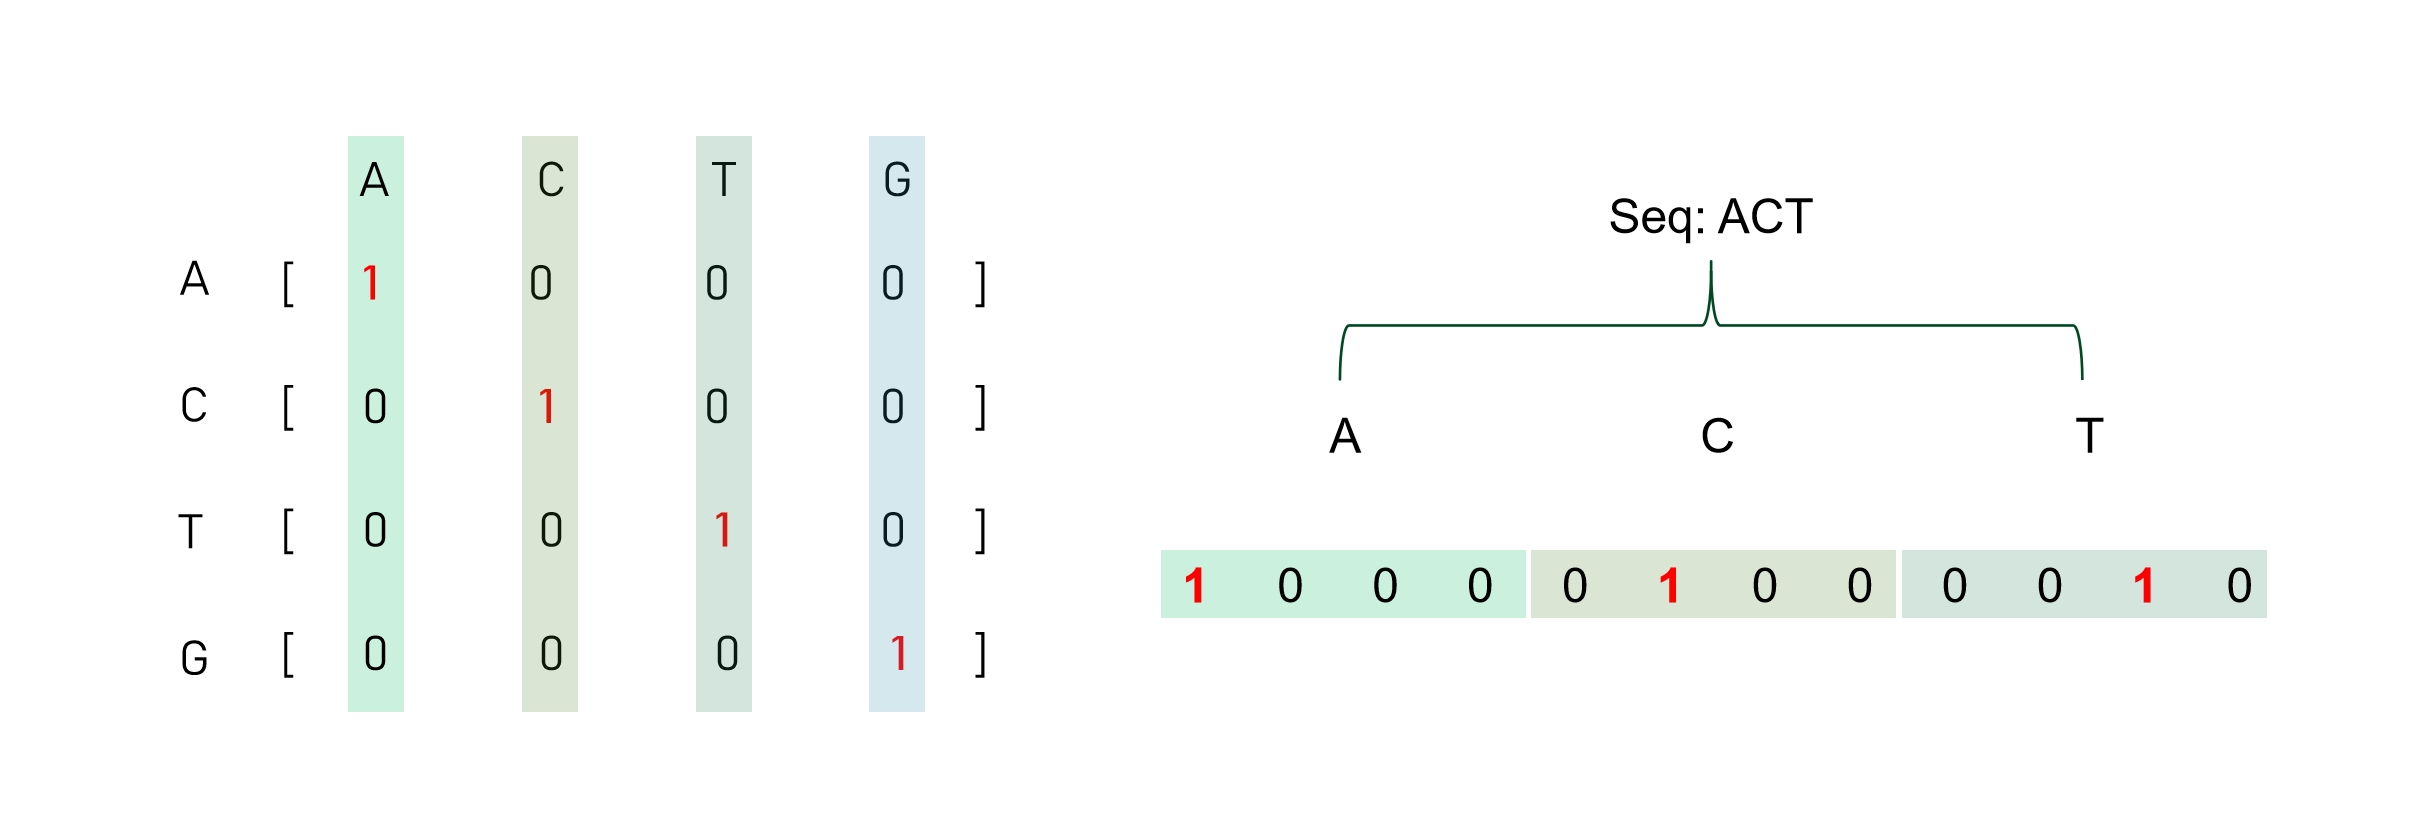
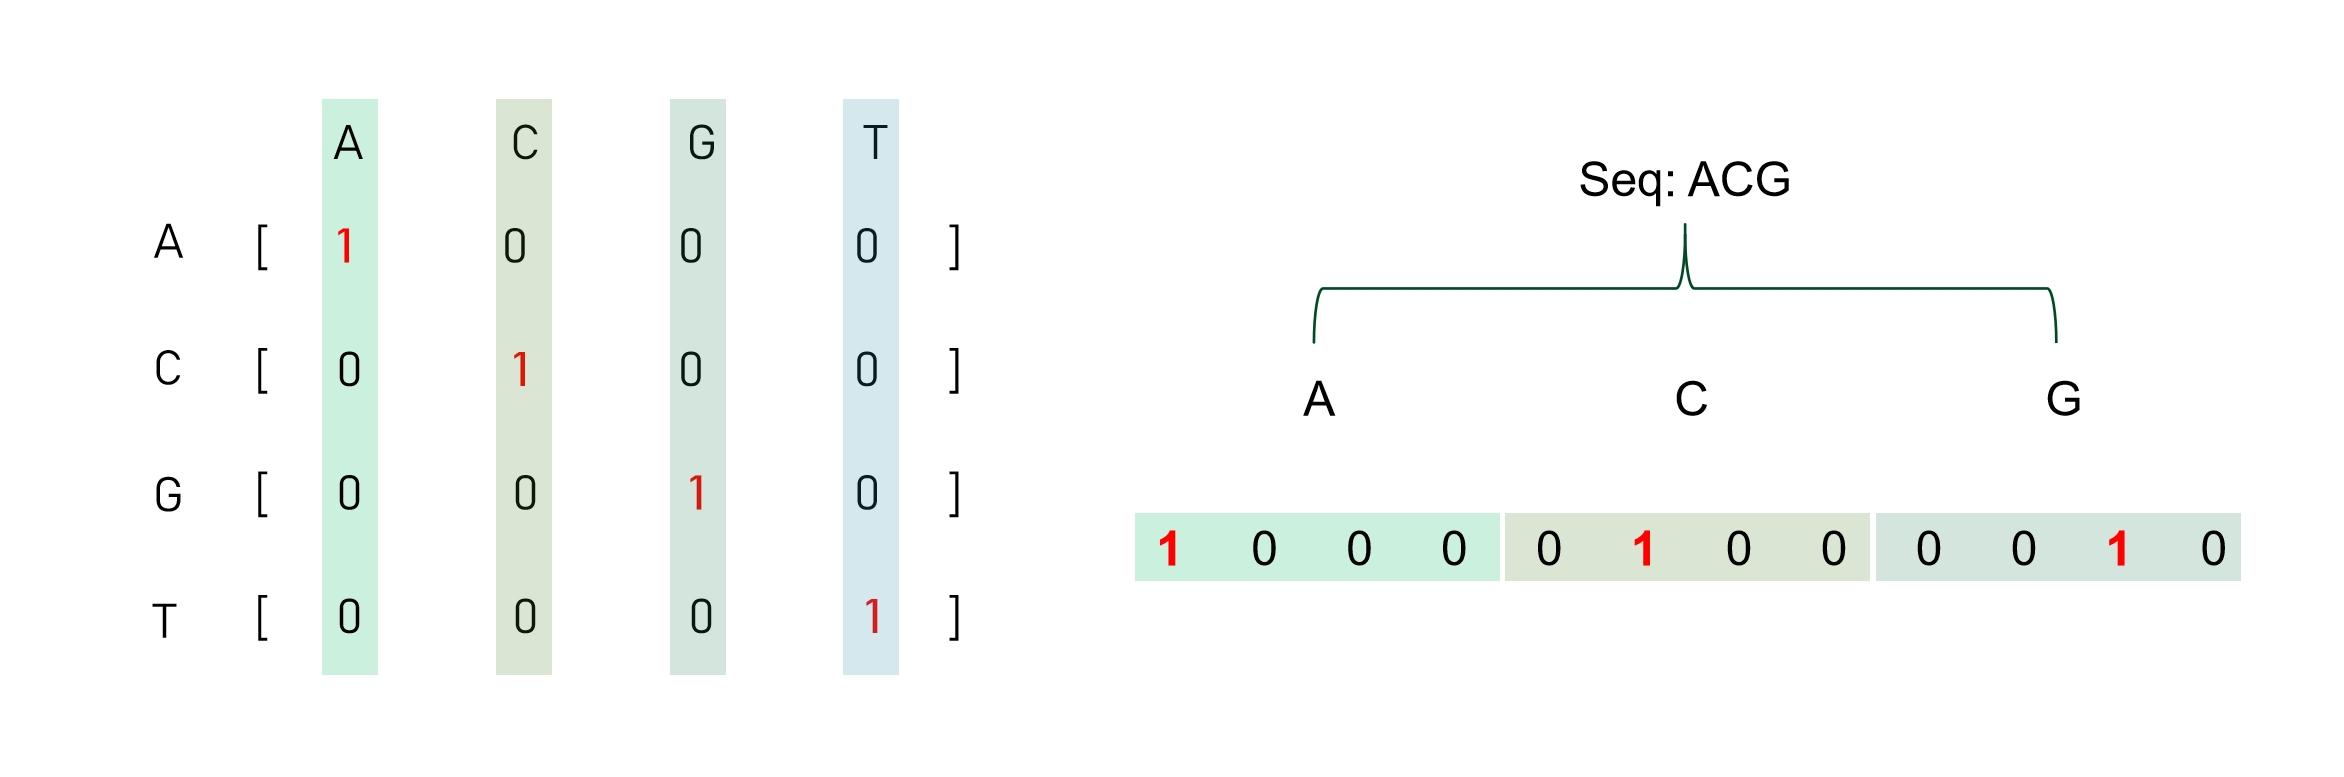
添加 README & 补充内容

diff --git a/build/html/task.html b/build/html/task.html
@@ -53,7 +53,8 @@
 <li class="toctree-l3"><a class="reference internal" href="#id4">数据文件</a></li>
 <li class="toctree-l3"><a class="reference internal" href="#id5">关于独热编码</a></li>
 <li class="toctree-l3"><a class="reference internal" href="#id6">挑选基因</a></li>
-<li class="toctree-l3"><a class="reference internal" href="#id7">思考</a></li>
+<li class="toctree-l3"><a class="reference internal" href="#id7">参考材料</a></li>
+<li class="toctree-l3"><a class="reference internal" href="#id8">思考</a></li>
 </ul>
 </li>
 </ul>
@@ -130,7 +131,7 @@
 <h2>作业 2<a class="headerlink" href="#id3" title="Link to this heading"></a></h2>
 <p>该作业的主要目的是<strong>基于生物学数据进行数据的预处理，并通过线性模型完成指定生物学任务</strong>。</p>
 <img src="_static/images/q2.png" height="400px" />
-<p>在作业附件中，有提供数据文件 <code class="docutils literal notranslate"><span class="pre">sgRNA_data.tsv</span></code>，你可将其移动至与 jupyter notebook 文件相同的文件夹并通过 pandas 库对其进行读取</p>
+<p>在作业附件中，有提供数据文件 <code class="docutils literal notranslate"><span class="pre">sgRNA_data.tsv</span></code>，你可将其移动至与 jupyter notebook 文件相同的文件夹并通过 pandas 库对其进行读取：</p>
 <div class="highlight-python notranslate"><div class="highlight"><pre><span></span><span class="kn">import</span> <span class="nn">pandas</span> <span class="k">as</span> <span class="nn">pd</span>
 <span class="n">data</span> <span class="o">=</span> <span class="n">pd</span><span class="o">.</span><span class="n">read_csv</span><span class="p">(</span><span class="s2">&quot;./sgRNA_data.tsv&quot;</span><span class="p">,</span> <span class="n">sep</span><span class="o">=</span><span class="s2">&quot;</span><span class="se">\t</span><span class="s2">&quot;</span><span class="p">)</span>
 </pre></div>
@@ -153,13 +154,20 @@
 </ul>
 <p>以该作业的情况为例，在使用单碱基独热编码时，共四种情况：</p>
 <img src="_static/images/q2_onehot.png" height="400px" />
-<p>其中，四种碱基 <code class="docutils literal notranslate"><span class="pre">A</span></code> <code class="docutils literal notranslate"><span class="pre">C</span></code> <code class="docutils literal notranslate"><span class="pre">T</span></code> <code class="docutils literal notranslate"><span class="pre">G</span></code> 分别对应一个长度为 4 的向量，并仅在一个对应位置上为 1（其他皆为 0）。对于一段序列（例如上图中的 <code class="docutils literal notranslate"><span class="pre">ACT</span></code>），可将其所有的碱基转换为对应向量并串联，即可得到该序列对应的独热编码结果。对于二碱基独热编码同理，共有 16 种可能的二碱基组合，其中每一种组合都对应一个长度为 16 的向量。</p>
+<p>其中，四种碱基 <code class="docutils literal notranslate"><span class="pre">A</span></code> <code class="docutils literal notranslate"><span class="pre">C</span></code> <code class="docutils literal notranslate"><span class="pre">G</span></code> <code class="docutils literal notranslate"><span class="pre">T</span></code> 分别对应一个长度为 4 的向量，并仅在一个对应位置上为 1（其他皆为 0）。对于一段序列（例如上图中的 <code class="docutils literal notranslate"><span class="pre">ACG</span></code>），可将其所有的碱基转换为对应向量并串联，即可得到该序列对应的独热编码结果。对于二碱基独热编码同理，共有 16 种可能的二碱基组合，其中每一种组合都对应一个长度为 16 的向量。</p>
 <p>为了得到每条 sgRNA 序列的独热编码结果，你可以使用字典保存每一种单碱基（二碱基）和对应向量的关系，通过 <code class="docutils literal notranslate"><span class="pre">for</span></code> 循环遍历该序列的单碱基（二碱基）并将把对应向量保存至同一个列表中，最后使用 <code class="docutils literal notranslate"><span class="pre">numpy</span></code> 的 <code class="docutils literal notranslate"><span class="pre">concatenate</span></code> 将其串联至一起，以下是一个示例：</p>
 <div class="highlight-python notranslate"><div class="highlight"><pre><span></span><span class="kn">import</span> <span class="nn">numpy</span> <span class="k">as</span> <span class="nn">np</span>
-<span class="n">np</span><span class="o">.</span><span class="n">concatenate</span><span class="p">([[</span><span class="mi">0</span><span class="p">,</span> <span class="mi">1</span><span class="p">],</span> <span class="p">[</span><span class="mi">1</span><span class="p">,</span> <span class="mi">2</span><span class="p">]])</span>
+
+<span class="n">one_hot_list</span> <span class="o">=</span> <span class="p">[</span>
+    <span class="p">[</span><span class="mi">1</span><span class="p">,</span> <span class="mi">0</span><span class="p">,</span> <span class="mi">0</span><span class="p">,</span> <span class="mi">0</span><span class="p">],</span>
+    <span class="p">[</span><span class="mi">0</span><span class="p">,</span> <span class="mi">0</span><span class="p">,</span> <span class="mi">0</span><span class="p">,</span> <span class="mi">1</span><span class="p">],</span>
+    <span class="p">[</span><span class="mi">0</span><span class="p">,</span> <span class="mi">1</span><span class="p">,</span> <span class="mi">0</span><span class="p">,</span> <span class="mi">0</span><span class="p">]</span>
+<span class="p">]</span>
+
+<span class="n">np</span><span class="o">.</span><span class="n">concatenate</span><span class="p">(</span><span class="n">one_hot_list</span><span class="p">)</span>
 </pre></div>
 </div>
-<div class="highlight-output notranslate"><div class="highlight"><pre><span></span><span class="go">array([0, 1, 1, 2])</span>
+<div class="highlight-output notranslate"><div class="highlight"><pre><span></span><span class="go">array([1, 0, 0, 0, 0, 0, 0, 1, 0, 1, 0, 0])</span>
 </pre></div>
 </div>
 <p>具体的实现方式非常多，以上只是其中的一个思路，仅作参考用。</p>
@@ -167,12 +175,20 @@
 <section id="id6">
 <h3>挑选基因<a class="headerlink" href="#id6" title="Link to this heading"></a></h3>
 <p>该作业使用留一基因法进行验证，其他在生物学中常见的类似操作还有留一染色体验证，留一个体验证等。某些场景下，这种计算方式能更准确地评估模型的泛化能力。</p>
-<p>你可以通过 random 或 numpy 库随机挑选一个基因，也可自行挑选。作为拓展，如果你感兴趣，也可以试试通过交叉验证生成一个折外预测集（out-of-fold）进行模型评估。</p>
+<p>你可以通过 random 或 numpy 库随机挑选一个基因，也可自行挑选。作为拓展，如果你感兴趣，也可以试试通过留一基因交叉验证生成一个折外预测集（out-of-fold）进行模型评估。</p>
 </section>
 <section id="id7">
-<h3>思考<a class="headerlink" href="#id7" title="Link to this heading"></a></h3>
+<h3>参考材料<a class="headerlink" href="#id7" title="Link to this heading"></a></h3>
+<ul class="simple">
+<li><p>数据框的处理可参考 <a class="reference external" href="https://www.runoob.com/pandas/pandas-dataframe.html">Pandas 数据结构 - DataFrame</a>，矩阵的处理和转换可参考 <a class="reference external" href="https://www.runoob.com/numpy/numpy-tutorial.html">NumPy 教程</a>。</p></li>
+<li><p>线性模型的使用可参考 scikit-learn 页面：<a class="reference external" href="https://scikit-learn.org/stable/modules/generated/sklearn.linear_model.LinearRegression.html">LinearRegression</a> / <a class="reference external" href="https://scikit-learn.org/stable/modules/generated/sklearn.linear_model.Lasso.html">Lasso</a>。</p></li>
+</ul>
+</section>
+<section id="id8">
+<h3>思考<a class="headerlink" href="#id8" title="Link to this heading"></a></h3>
 <ul class="simple">
 <li><p>独热编码的优点有哪些？缺点有哪些？</p></li>
+<li><p>Lasso 中 Alpha 的值不同时，模型表现会发生怎样的变化？</p></li>
 </ul>
 </section>
 </section>

diff --git a/build/html/searchindex.js b/build/html/searchindex.js
@@ -1,1 +1,1 @@
-Search.setIndex({"alltitles": {"\u300a\u4eba\u5de5\u667a\u80fd\u4e0e\u751f\u7269\u5b66\u5e94\u7528\u5bfc\u8bba\u300b": [[0, null]], "\u4f5c\u4e1a 1": [[2, "id2"]], "\u4f5c\u4e1a 2": [[2, "id3"]], "\u5173\u4e8e\u72ec\u70ed\u7f16\u7801": [[2, "id5"]], "\u52a9\u6559": [[1, "id6"]], "\u601d\u8003": [[2, "id7"]], "\u6311\u9009\u57fa\u56e0": [[2, "id6"]], "\u6559\u5e08\u56e2\u961f": [[1, "id5"]], "\u6570\u636e\u6587\u4ef6": [[2, "id4"]], "\u8bfe\u7a0b\u4ecb\u7ecd": [[1, null]], "\u8bfe\u7a0b\u4f5c\u4e1a": [[2, null]], "\u8bfe\u7a0b\u5b89\u6392": [[1, "id3"]], "\u8bfe\u7a0b\u76ee\u7684": [[1, "id2"]], "\u8bfe\u7a0b\u8003\u6838\u65b9\u5f0f": [[1, "id4"]]}, "docnames": ["index", "introduction", "task"], "envversion": {"sphinx": 64, "sphinx.domains.c": 3, "sphinx.domains.changeset": 1, "sphinx.domains.citation": 1, "sphinx.domains.cpp": 9, "sphinx.domains.index": 1, "sphinx.domains.javascript": 3, "sphinx.domains.math": 2, "sphinx.domains.python": 4, "sphinx.domains.rst": 2, "sphinx.domains.std": 2}, "filenames": ["index.rst", "introduction.md", "task.md"], "indexentries": {}, "objects": {}, "objnames": {}, "objtypes": {}, "terms": {"10": 1, "16": 2, "17": 1, "18": 1, "40": 1, "50": 1, "act": 2, "ai": 2, "array": 2, "as": 2, "chatgpt": 2, "class": 2, "cn": 1, "column": 2, "com": 2, "concaten": 2, "context": 2, "data": 2, "datafram": 2, "df": 2, "edu": 1, "encod": 2, "fold": 2, "for": 2, "hot": 2, "html": 2, "https": 2, "import": 2, "jiangzj6": 1, "jupyt": 2, "mail2": 1, "notebook": 2, "np": 2, "numpi": 2, "of": 2, "one": 2, "out": 2, "panda": 2, "pd": 2, "print": 2, "python": 2, "python3": 2, "pytorch": 1, "random": 2, "read_csv": 2, "runoob": 2, "sep": 2, "sgrna": 2, "sgrna_act": 2, "sgrna_context": 2, "sgrna_data": 2, "sysu": 1, "target_gen": 2, "tsv": 2, "tutori": 2, "uniqu": 2, "unique_values_a": 2, "unique_values_b": 2, "valu": 2, "www": 2}, "titles": ["\u300a\u4eba\u5de5\u667a\u80fd\u4e0e\u751f\u7269\u5b66\u5e94\u7528\u5bfc\u8bba\u300b", "\u8bfe\u7a0b\u4ecb\u7ecd", "\u8bfe\u7a0b\u4f5c\u4e1a"], "titleterms": {}})
+Search.setIndex({"alltitles": {"\u300a\u4eba\u5de5\u667a\u80fd\u4e0e\u751f\u7269\u5b66\u5e94\u7528\u5bfc\u8bba\u300b": [[0, null]], "\u4f5c\u4e1a 1": [[2, "id2"]], "\u4f5c\u4e1a 2": [[2, "id3"]], "\u5173\u4e8e\u72ec\u70ed\u7f16\u7801": [[2, "id5"]], "\u52a9\u6559": [[1, "id6"]], "\u53c2\u8003\u6750\u6599": [[2, "id7"]], "\u601d\u8003": [[2, "id8"]], "\u6311\u9009\u57fa\u56e0": [[2, "id6"]], "\u6559\u5e08\u56e2\u961f": [[1, "id5"]], "\u6570\u636e\u6587\u4ef6": [[2, "id4"]], "\u8bfe\u7a0b\u4ecb\u7ecd": [[1, null]], "\u8bfe\u7a0b\u4f5c\u4e1a": [[2, null]], "\u8bfe\u7a0b\u5b89\u6392": [[1, "id3"]], "\u8bfe\u7a0b\u76ee\u7684": [[1, "id2"]], "\u8bfe\u7a0b\u8003\u6838\u65b9\u5f0f": [[1, "id4"]]}, "docnames": ["index", "introduction", "task"], "envversion": {"sphinx": 64, "sphinx.domains.c": 3, "sphinx.domains.changeset": 1, "sphinx.domains.citation": 1, "sphinx.domains.cpp": 9, "sphinx.domains.index": 1, "sphinx.domains.javascript": 3, "sphinx.domains.math": 2, "sphinx.domains.python": 4, "sphinx.domains.rst": 2, "sphinx.domains.std": 2}, "filenames": ["index.rst", "introduction.md", "task.md"], "indexentries": {}, "objects": {}, "objnames": {}, "objtypes": {}, "terms": {"10": 1, "16": 2, "17": 1, "18": 1, "40": 1, "50": 1, "acg": 2, "ai": 2, "alpha": 2, "array": 2, "as": 2, "chatgpt": 2, "class": 2, "cn": 1, "column": 2, "com": 2, "concaten": 2, "context": 2, "data": 2, "datafram": 2, "df": 2, "edu": 1, "encod": 2, "fold": 2, "for": 2, "hot": 2, "html": 2, "https": 2, "import": 2, "jiangzj6": 1, "jupyt": 2, "lasso": 2, "learn": 2, "linearregress": 2, "mail2": 1, "notebook": 2, "np": 2, "numpi": 2, "of": 2, "one": 2, "one_hot_list": 2, "out": 2, "panda": 2, "pd": 2, "print": 2, "python": 2, "python3": 2, "pytorch": 1, "random": 2, "read_csv": 2, "runoob": 2, "scikit": 2, "sep": 2, "sgrna": 2, "sgrna_act": 2, "sgrna_context": 2, "sgrna_data": 2, "sysu": 1, "target_gen": 2, "tsv": 2, "tutori": 2, "uniqu": 2, "unique_values_a": 2, "unique_values_b": 2, "valu": 2, "www": 2}, "titles": ["\u300a\u4eba\u5de5\u667a\u80fd\u4e0e\u751f\u7269\u5b66\u5e94\u7528\u5bfc\u8bba\u300b", "\u8bfe\u7a0b\u4ecb\u7ecd", "\u8bfe\u7a0b\u4f5c\u4e1a"], "titleterms": {}})

diff --git a/build/html/index.html b/build/html/index.html
@@ -82,7 +82,7 @@
 <p>机器学习的核心是从数据中学习模式，并据此做出预测或推断。它在生物学中的应用领域十分广泛，涵盖了多个前沿研究方向，如蛋白质结构预测、生物医学影像分析、疾病预测等。</p>
 <a class="reference internal image-reference" href="https://media.springernature.com/full/springer-static/image/art%3A10.1038%2Fs41586-021-03819-2/MediaObjects/41586_2021_3819_Fig1_HTML.png?as=webp"><img alt="AlphaFold2" src="https://media.springernature.com/full/springer-static/image/art%3A10.1038%2Fs41586-021-03819-2/MediaObjects/41586_2021_3819_Fig1_HTML.png?as=webp" style="height: 400px;" />
 </a>
-<p>本课程旨在介绍机器学习方法的原理和应用，并通过具体案例和实践将其应用在生物学问题上。</p>
+<p>本课程将介绍机器学习方法的原理，并通过具体案例和实践将其应用在生物学问题上。</p>
 <div class="toctree-wrapper compound">
 <ul>
 <li class="toctree-l1"><a class="reference internal" href="introduction.html">课程介绍</a></li>

diff --git a/source/conf.py b/source/conf.py
@@ -40,4 +40,4 @@ language = 'zh_CN'
 # https://www.sphinx-doc.org/en/master/usage/configuration.html#options-for-html-output
 
 html_theme = 'sphinx_rtd_theme'
-html_static_path = ['_static', 'images']
+html_static_path = ['_static']

diff --git a/source/task.md b/source/task.md
@@ -52,7 +52,7 @@
 
 <img src="_static/images/q2.png" height="400px" />
 
-在作业附件中，有提供数据文件 `sgRNA_data.tsv`，你可将其移动至与 jupyter notebook 文件相同的文件夹并通过 pandas 库对其进行读取
+在作业附件中，有提供数据文件 `sgRNA_data.tsv`，你可将其移动至与 jupyter notebook 文件相同的文件夹并通过 pandas 库对其进行读取：
 
 ```python
 import pandas as pd
@@ -78,17 +78,24 @@ data = pd.read_csv("./sgRNA_data.tsv", sep="\t")
 
 <img src="_static/images/q2_onehot.png" height="400px" />
 
-其中，四种碱基 `A` `C` `T` `G` 分别对应一个长度为 4 的向量，并仅在一个对应位置上为 1（其他皆为 0）。对于一段序列（例如上图中的 `ACT`），可将其所有的碱基转换为对应向量并串联，即可得到该序列对应的独热编码结果。对于二碱基独热编码同理，共有 16 种可能的二碱基组合，其中每一种组合都对应一个长度为 16 的向量。
+其中，四种碱基 `A` `C` `G` `T` 分别对应一个长度为 4 的向量，并仅在一个对应位置上为 1（其他皆为 0）。对于一段序列（例如上图中的 `ACG`），可将其所有的碱基转换为对应向量并串联，即可得到该序列对应的独热编码结果。对于二碱基独热编码同理，共有 16 种可能的二碱基组合，其中每一种组合都对应一个长度为 16 的向量。
 
 为了得到每条 sgRNA 序列的独热编码结果，你可以使用字典保存每一种单碱基（二碱基）和对应向量的关系，通过 `for` 循环遍历该序列的单碱基（二碱基）并将把对应向量保存至同一个列表中，最后使用 `numpy` 的 `concatenate` 将其串联至一起，以下是一个示例：
 
 ```python
 import numpy as np
-np.concatenate([[0, 1], [1, 2]])
+
+one_hot_list = [
+    [1, 0, 0, 0],
+    [0, 0, 0, 1],
+    [0, 1, 0, 0]
+]
+
+np.concatenate(one_hot_list)
 ```
 
 ```output
-array([0, 1, 1, 2])
+array([1, 0, 0, 0, 0, 0, 0, 1, 0, 1, 0, 0])
 ```
 
 具体的实现方式非常多，以上只是其中的一个思路，仅作参考用。
@@ -97,9 +104,15 @@ array([0, 1, 1, 2])
 
 该作业使用留一基因法进行验证，其他在生物学中常见的类似操作还有留一染色体验证，留一个体验证等。某些场景下，这种计算方式能更准确地评估模型的泛化能力。
 
-你可以通过 random 或 numpy 库随机挑选一个基因，也可自行挑选。作为拓展，如果你感兴趣，也可以试试通过交叉验证生成一个折外预测集（out-of-fold）进行模型评估。
+你可以通过 random 或 numpy 库随机挑选一个基因，也可自行挑选。作为拓展，如果你感兴趣，也可以试试通过留一基因交叉验证生成一个折外预测集（out-of-fold）进行模型评估。
+
+#### 参考材料
+
+- 数据框的处理可参考 [Pandas 数据结构 - DataFrame](https://www.runoob.com/pandas/pandas-dataframe.html)，矩阵的处理和转换可参考 [NumPy 教程](https://www.runoob.com/numpy/numpy-tutorial.html)。
+- 线性模型的使用可参考 scikit-learn 页面：[LinearRegression](https://scikit-learn.org/stable/modules/generated/sklearn.linear_model.LinearRegression.html) / [Lasso](https://scikit-learn.org/stable/modules/generated/sklearn.linear_model.Lasso.html)。
 
 #### 思考
 
 - 独热编码的优点有哪些？缺点有哪些？
+- Lasso 中 Alpha 的值不同时，模型表现会发生怎样的变化？
 

diff --git a/source/index.rst b/source/index.rst
@@ -18,7 +18,7 @@
    :alt: AlphaFold2
    :height: 400px
 
-本课程旨在介绍机器学习方法的原理和应用，并通过具体案例和实践将其应用在生物学问题上。
+本课程将介绍机器学习方法的原理，并通过具体案例和实践将其应用在生物学问题上。
 
 .. toctree::
    :maxdepth: 1

diff --git a/README.md b/README.md
@@ -1,0 +1,5 @@
+## AI-BioCourse
+
+该 github repository 用于维护中山大学生命科学学院课程《人工智能与生物学应用导论》的 documentation。
+
+https://ai-biocourse.readthedocs.io/en/latest/
